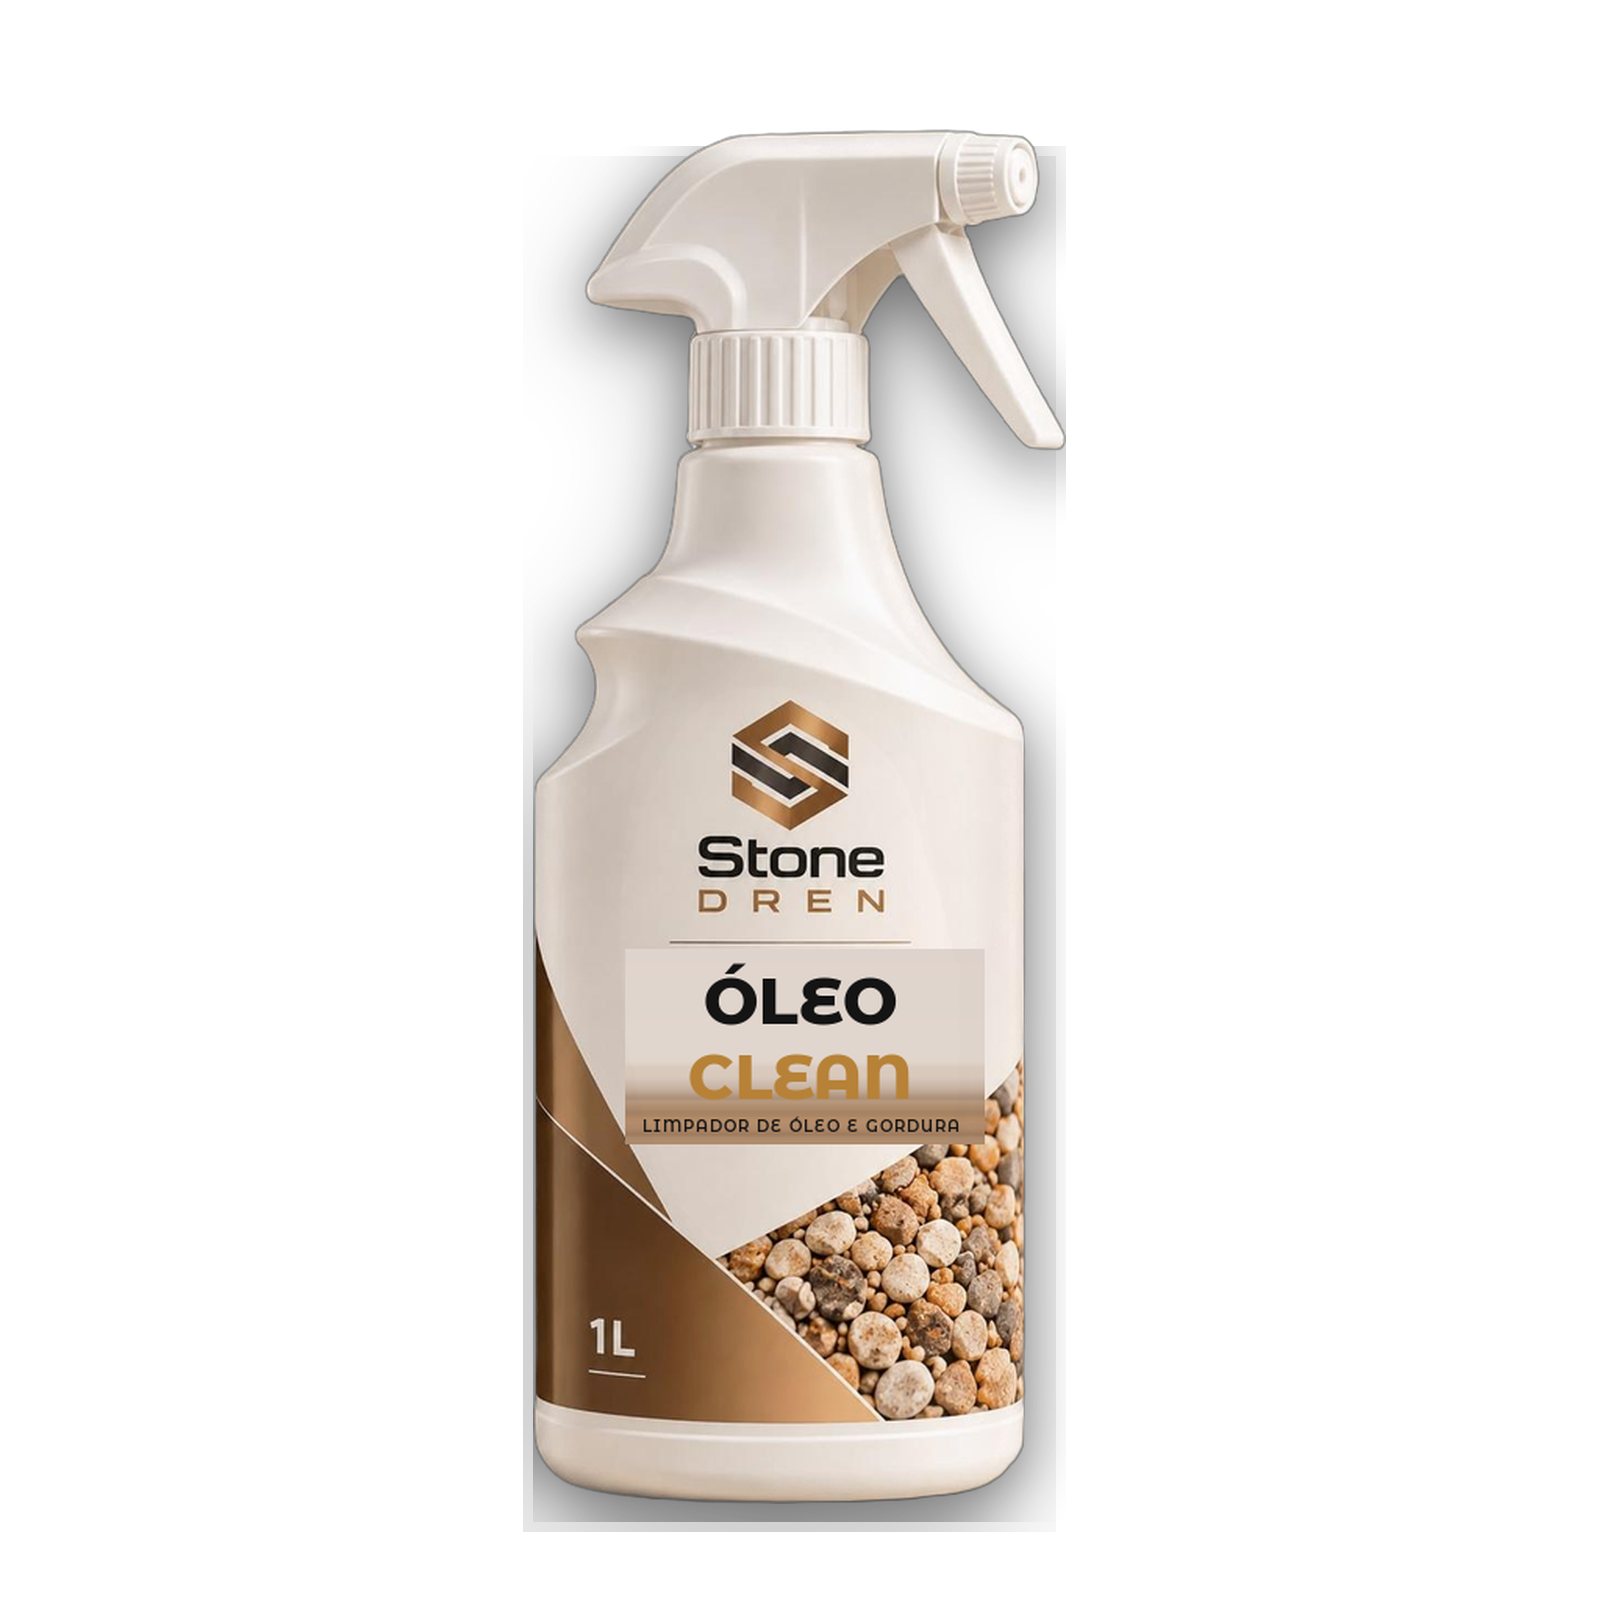
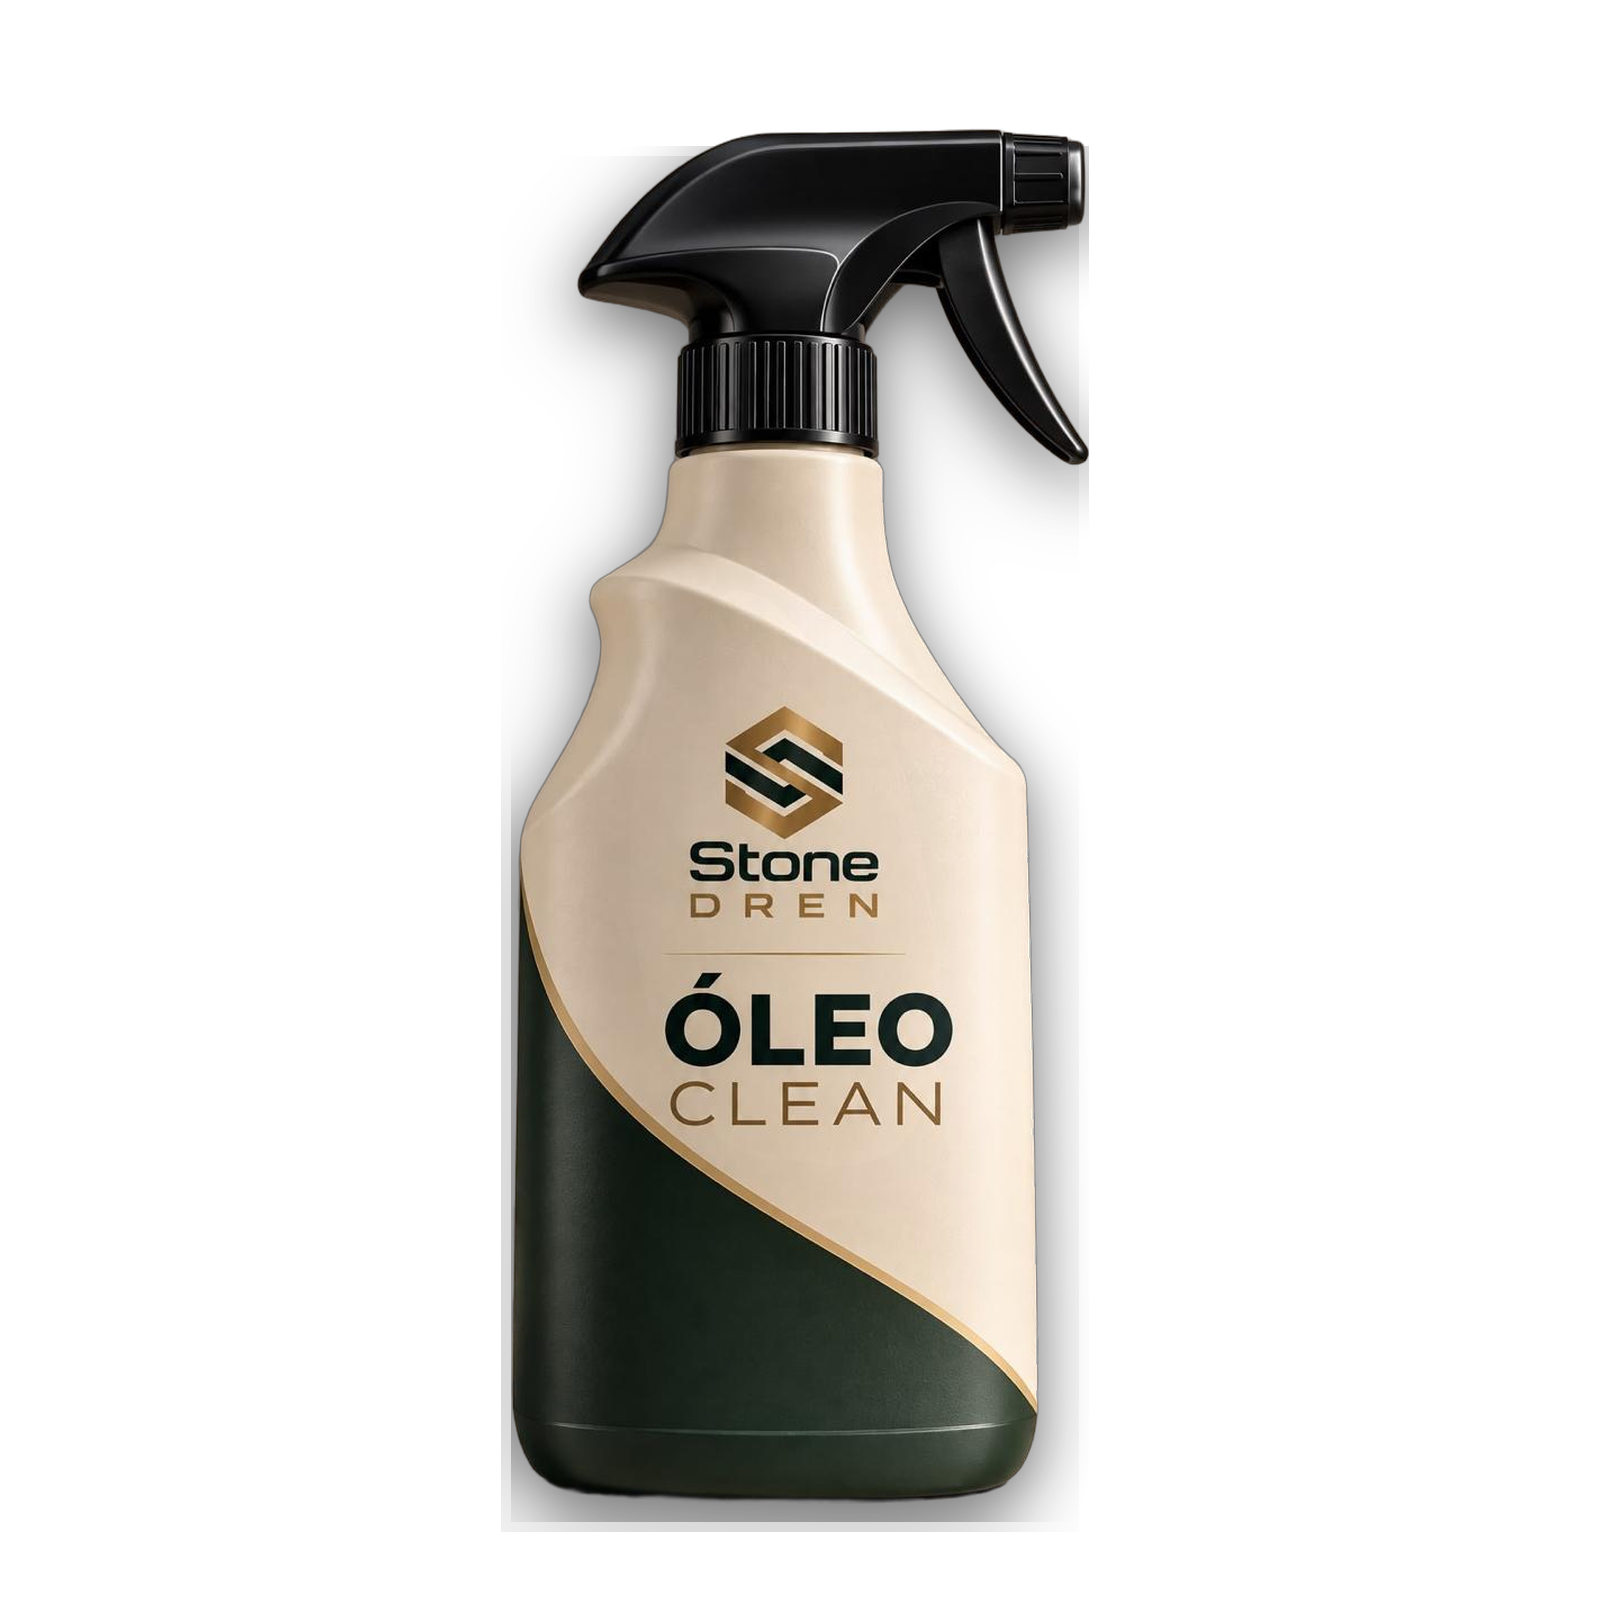
Restore Óleo Clean packshot to cream/green bottle with black spray
Use the original Óleo Clean reference cutout (not Fix Pedras label swap), transparent for navy product cards.

Changed region(s): [[0.3125, 0.0625, 0.6875, 0.9688]]

diff --git a/index.html b/index.html
@@ -240,7 +240,7 @@
         <div class="txt"><p class="tag">Pulverizador</p><h3>Fix Pedras</h3><p>Fixador de pedras naturais aplicado em spray para manter no lugar as pedras decorativas de jardim.</p></div>
       </article>
       <article class="prod" data-reveal data-tilt>
-        <div class="art"><img src="img/spray-oleo-clean.png?v=pack2" alt="Pulverizador Óleo Clean Stone Dren 1 L" width="400" height="400" loading="lazy" decoding="async"></div>
+        <div class="art"><img src="img/spray-oleo-clean.png?v=pack3" alt="Pulverizador Óleo Clean Stone Dren 1 L" width="400" height="400" loading="lazy" decoding="async"></div>
         <div class="txt"><p class="tag">Pulverizador</p><h3>Óleo Clean</h3><p>Limpador de óleo e gordura para pedras e superfícies da linha Stone Dren.</p></div>
       </article>
       <article class="prod" data-reveal data-tilt>
